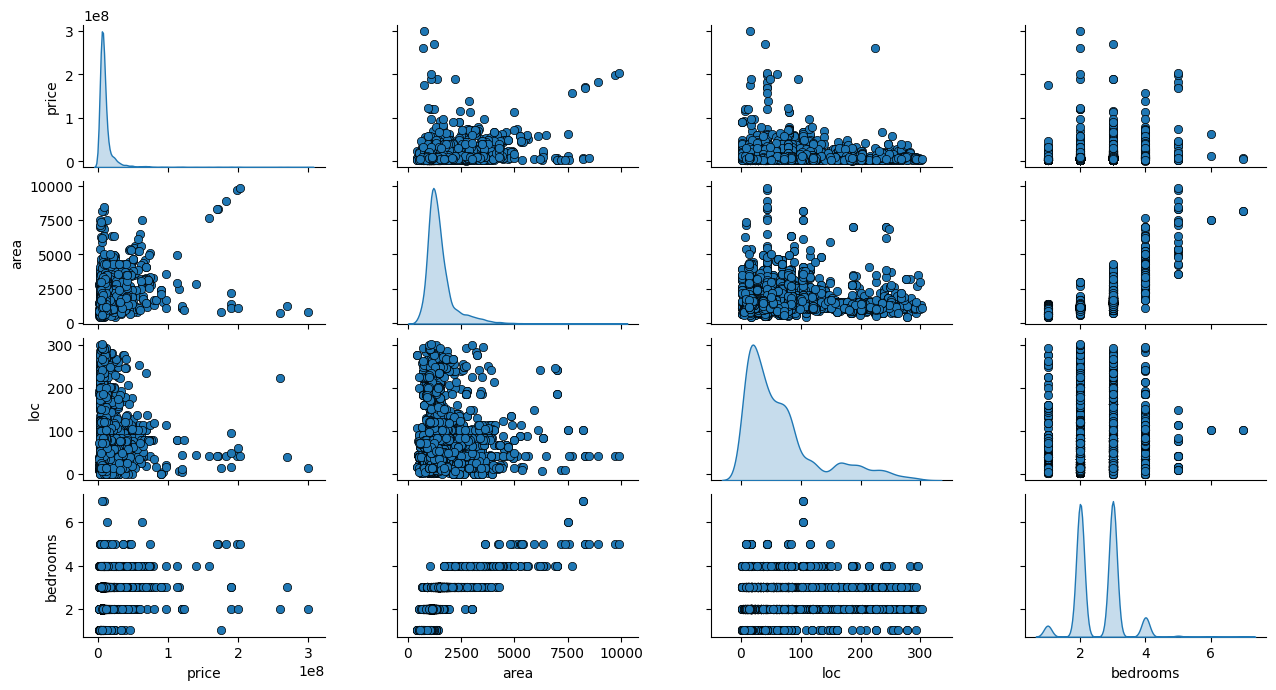
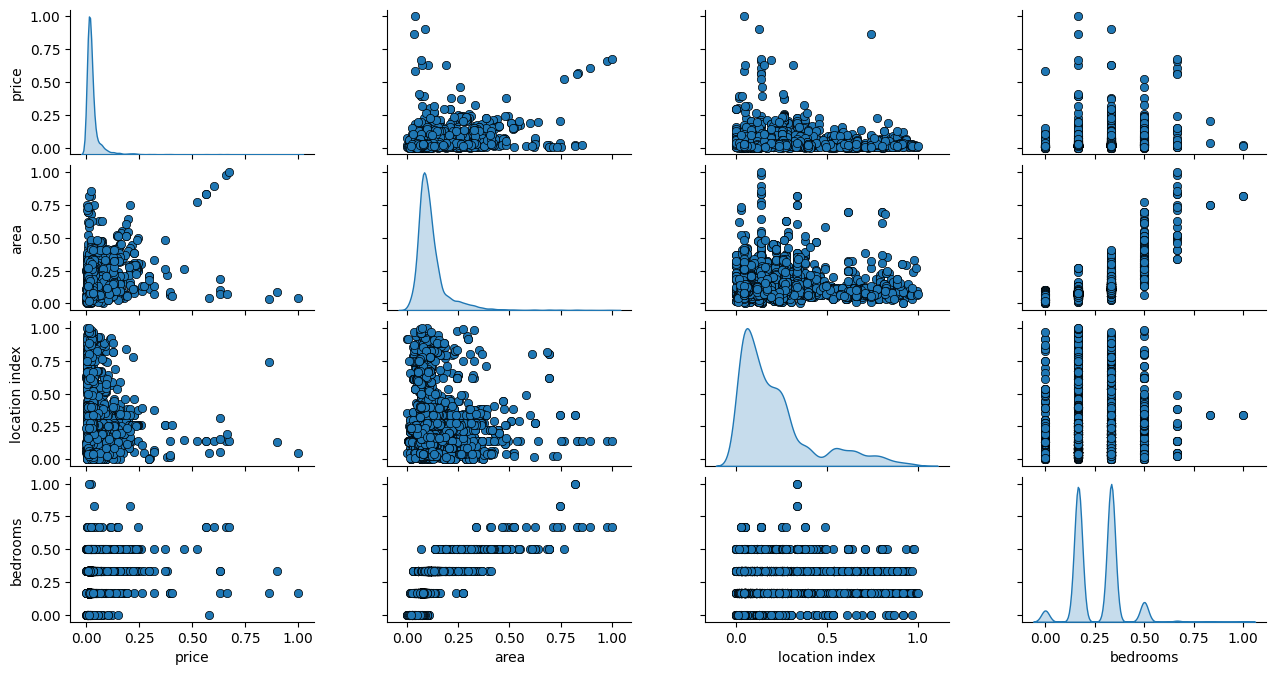
normalize preview data

diff --git a/visualize_dataset.py b/visualize_dataset.py
@@ -1,8 +1,11 @@
 from sys import argv
 
+from sklearn.preprocessing import MinMaxScaler
+
 import global_variables as gl_vars
 import seaborn as sns
 import matplotlib.pyplot as plt
+import pandas as pd
 
 # show plot?
 show = True
@@ -13,7 +16,7 @@ if len(argv) > 1:
     show = not (argv[2] == '0')
 
 # read csv
-data = gl_vars.read_df()
+df = gl_vars.read_df()
 
 # plot
 # get columns to plot
@@ -24,12 +27,17 @@ data = gl_vars.read_df()
 #     if i == gl_vars.class_column_index or column_features_start <= i < column_features_stop:
 #         columns.append(data.columns[i])
 
-print(data[data.columns])
+# give overview over dataset
+print(df)
+
+# normalize the data with min max
+# https://stackoverflow.com/questions/26414913/normalize-columns-of-pandas-data-frame
+tdata = (df - df.min()) / (df.max() - df.min())
 
 # plot pairs
-pair_plot = sns.pairplot(data[data.columns], height=1.8, aspect=1.8,
+pair_plot = sns.pairplot(tdata, height=1.8, aspect=1.8,
                          plot_kws=dict(edgecolor="k", linewidth=0.5),
-                         diag_kind='kde', hue=gl_vars.column_names()[gl_vars.class_column_index])
+                         diag_kind='kde')
 
 # little design
 fig = pair_plot.fig
@@ -40,5 +48,3 @@ if show:
     plt.show()
 else:
     pair_plot.savefig('scores/%s.png' % gl_vars.dataset_name)
-
-

diff --git a/generate_model.py b/generate_model.py
@@ -1,4 +1,3 @@
-import os
 from sys import argv
 
 import global_variables as gl_vars
@@ -10,7 +9,7 @@ import utils
 # (this has to be down in the code as well!)
 from sklearn.preprocessing import MinMaxScaler
 
-from sklearn.linear_model import LinearRegression, LogisticRegression
+from sklearn.linear_model import LinearRegression
 from sklearn.neighbors import KNeighborsRegressor
 from sklearn.ensemble import RandomForestRegressor
 
